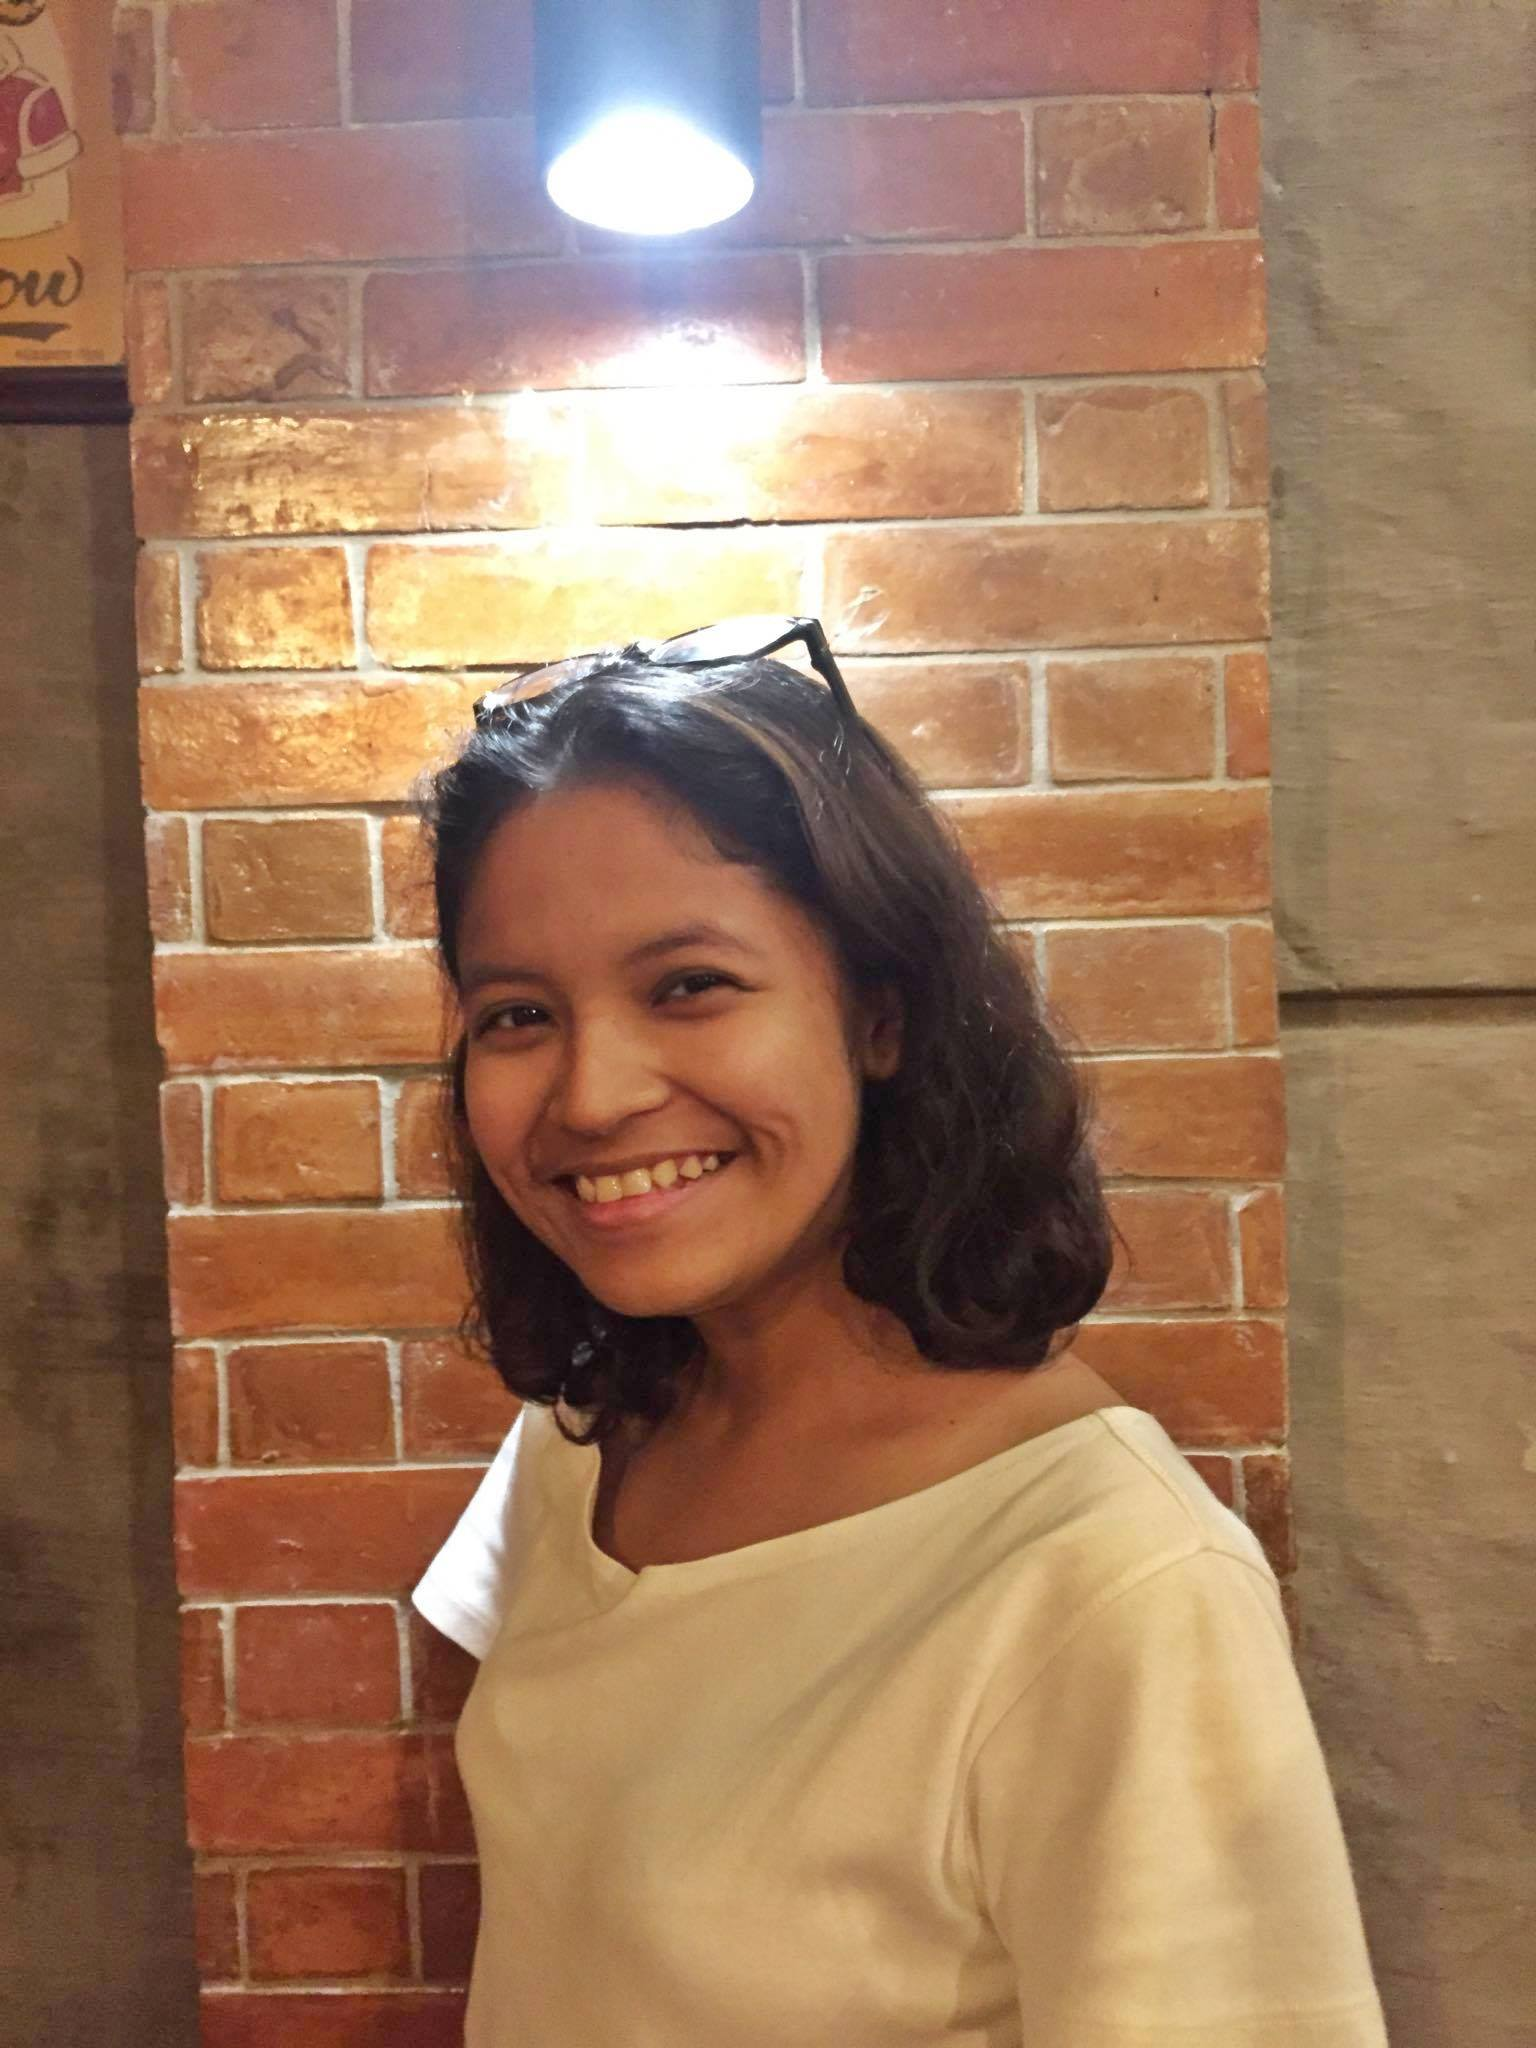
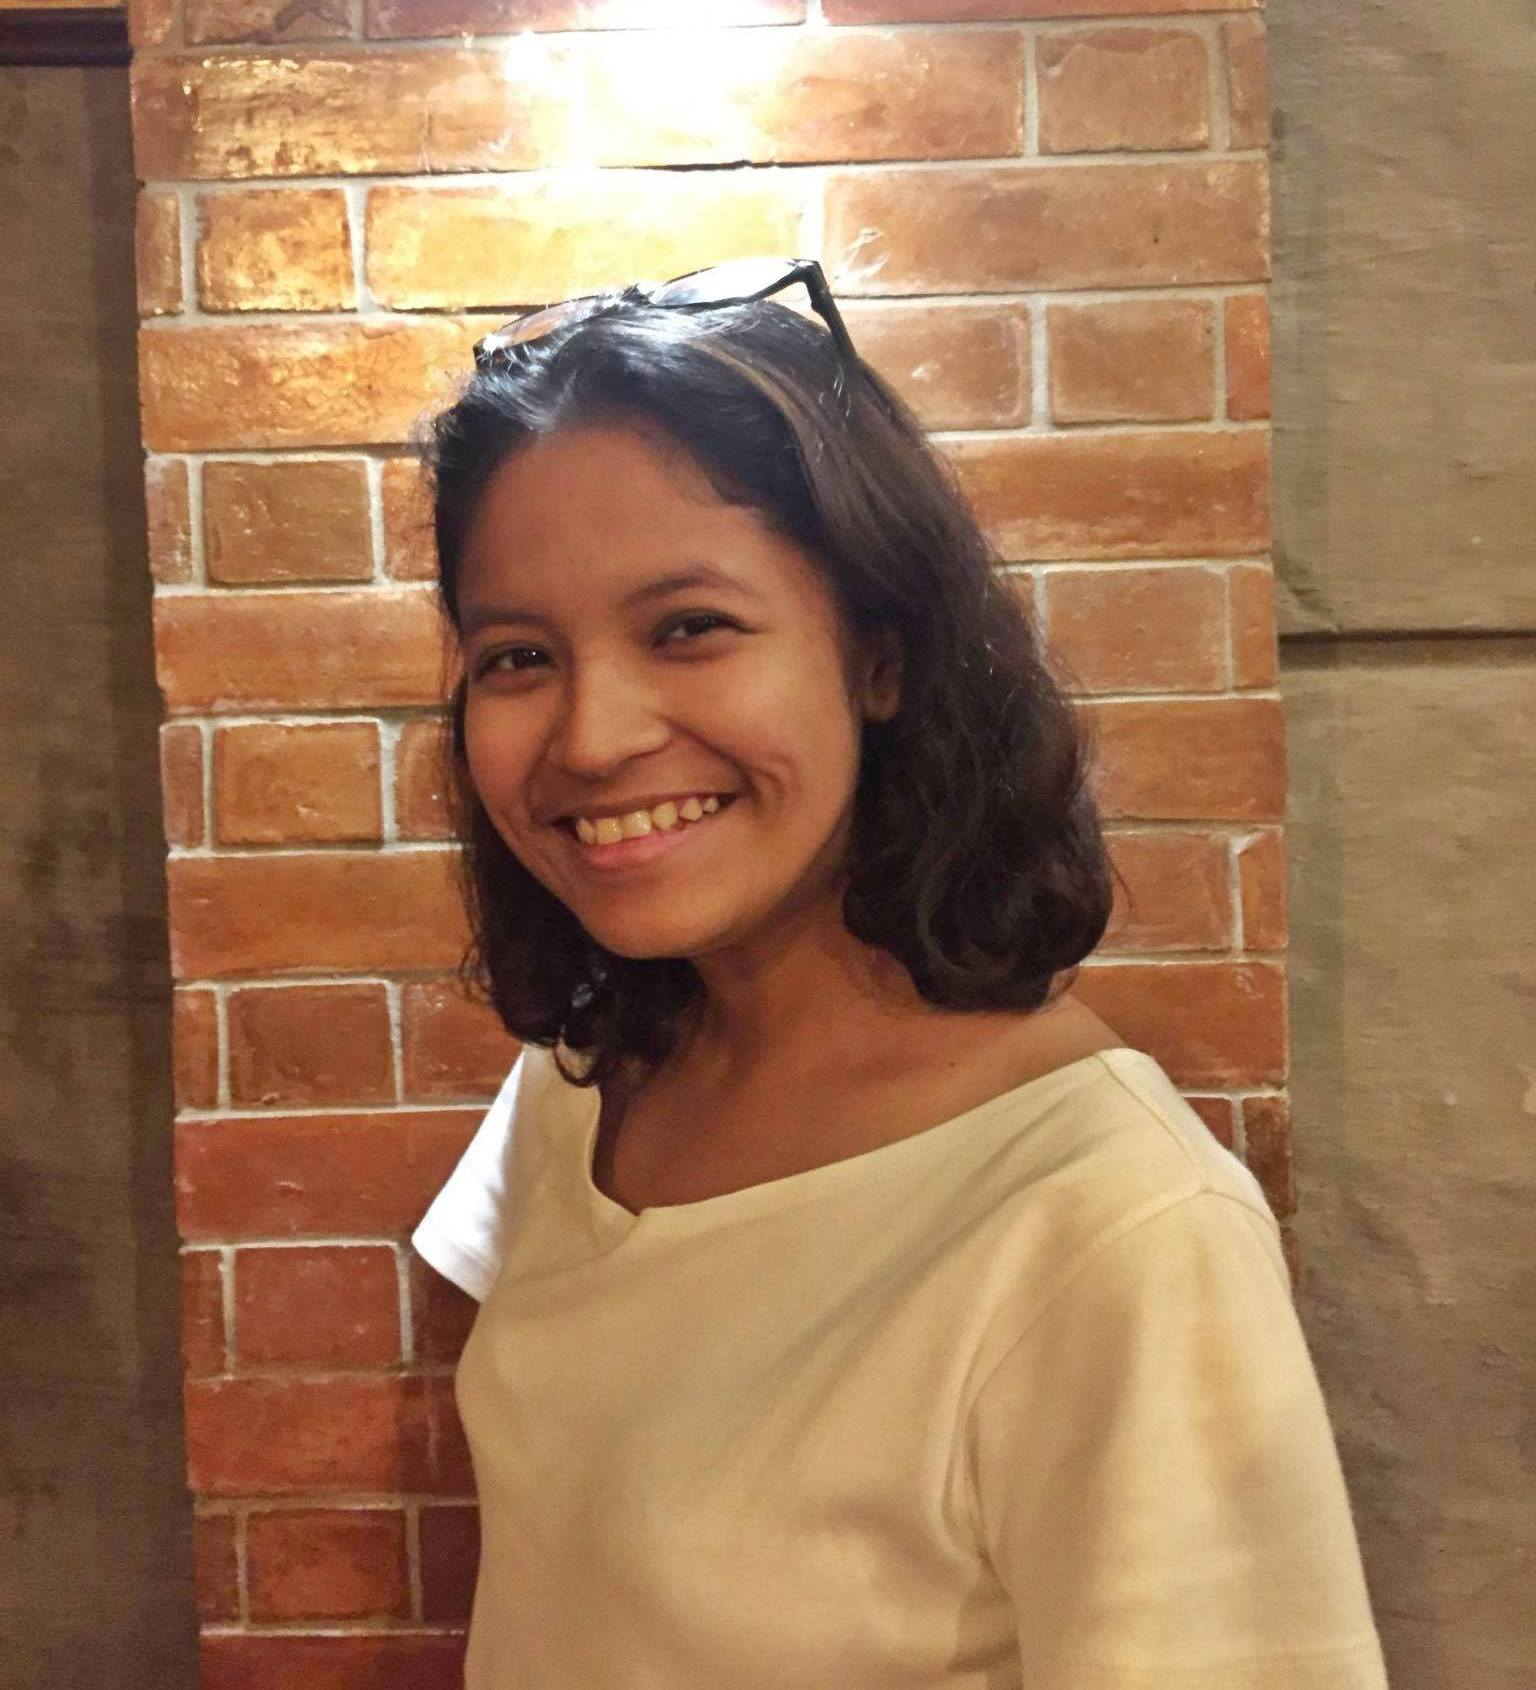
Chapter leader images and links

diff --git a/about.html b/about.html
@@ -325,48 +325,140 @@
     <div class="space-3"></div>
     <div class="row">
       <div class="col-12">
-        <h1 class="special marg-bot-2">
-          Meet the team
+        <h1 class="special marg-bot-2 full-width">
+          Meet the team of chapter leaders
         </h1>
 
-        <div class="card-columns">
+        <div class="row">
           <!-- david -->
-          <div class="person card">
-            <img src="./img/team/David.jpg" alt="David Ongchoco" class="card-img-top img-fluid">
-            <div class="card-block">
-              <p class="bold name">David Ongchoco</p>
-              <p class="text-muted title">Founder of YouthHack, global operations</p>
-              <a href="mailto:david@youthhack.net" class="cyan-text no-decoration">
-                <i class="fa fa-envelope"></i> david@youthhack.net
-              </a>
+          <div class="col-12 col-sm-6 col-md-4 col-lg-3">
+            <div class="person card">
+              <div class="card-img-top">
+                <img src="./img/team/David.jpg" alt="David Ongchoco" class="img-fluid">
+              </div>
+              <div class="card-block">
+                <p class="bold name">David Ongchoco</p>
+                <p class="text-muted title">Founder of YouthHack</p>
+                <a href="mailto:david@youthhack.net" class="cyan-text no-decoration">
+                  <i class="fa fa-envelope"></i> david@youthhack.net
+                </a>
+              </div>
             </div>
           </div>
 
           <!-- sanjula -->
-          <div class="person card">
-            <img src="./img/team/Sanjula.jpg" alt="Sanjula Weerawardhena" class="card-img-top img-fluid">
-            <div class="card-block">
-              <p class="bold name">Sanjula Weerawardhena</p>
-              <p class="text-muted title">Colombo, Sri Lanka</p>
-              <a href="mailto:sanjula@youthhack.net" class="cyan-text no-decoration">
-                <i class="fa fa-envelope"></i> sanjula@youthhack.net
-              </a>
+          <div class="col-12 col-sm-6 col-md-4 col-lg-3">
+            <div class="person card">
+              <div class="card-img-top">
+                <img src="./img/team/Sanjula.jpg" alt="Sanjula Weerawardhena" class="img-fluid">
+              </div>
+              <div class="card-block">
+                <p class="bold name">Sanjula Weerawardhena</p>
+                <p class="text-muted title">Colombo, Sri Lanka</p>
+                <a href="mailto:sanjula@youthhack.net" class="cyan-text no-decoration">
+                  <i class="fa fa-envelope"></i> sanjula@youthhack.net
+                </a>
+              </div>
             </div>
           </div>
 
           <!-- philippe -->
-          <div class="person card">
-            <img src="./img/team/Philippe.jpg" alt="Philippe Bungabong" class="card-img-top img-fluid">
-            <div class="card-block">
-              <p class="bold name">Philippe Bungabong</p>
-              <p class="text-muted title">Manila, Philippines</p>
-              <a href="mailto:philippe@youthhack.net" class="cyan-text no-decoration">
-                <i class="fa fa-envelope"></i> philippe@youthhack.net
-              </a>
+          <div class="col-12 col-sm-6 col-md-4 col-lg-3">
+            <div class="person card">
+              <div class="card-img-top">
+                <img src="./img/team/Philippe.jpg" alt="Philippe Bungabong" class="img-fluid">
+              </div>
+              <div class="card-block">
+                <p class="bold name">Philippe Bungabong</p>
+                <p class="text-muted title">Manila, Philippines</p>
+                <a href="mailto:philippe@youthhack.net" class="cyan-text no-decoration">
+                  <i class="fa fa-envelope"></i> philippe@youthhack.net
+                </a>
+              </div>
+            </div>
+          </div>
+
+          <!-- patricia -->
+          <div class="col-12 col-sm-6 col-md-4 col-lg-3">
+            <div class="person card">
+              <div class="card-img-top">
+                <img src="./img/team/Tisha.jpg" alt="Patricia Evite" class="img-fluid">
+              </div>
+              <div class="card-block">
+                <p class="bold name">Patricia Evite</p>
+                <p class="text-muted title">Calabarzon, Philippines</p>
+                <a href="mailto:pevite@youthhack.net" class="cyan-text no-decoration">
+                  <i class="fa fa-envelope"></i> pevite@youthhack.net
+                </a>
+              </div>
+            </div>
+          </div>
+
+          <!-- jeffrey -->
+          <div class="col-12 col-sm-6 col-md-4 col-lg-3">
+            <div class="person card">
+              <div class="card-img-top">
+                <img src="./img/team/Jeff.jpg" alt="Jeffrey Gao" class="img-fluid">
+              </div>
+              <div class="card-block">
+                <p class="bold name">Jeffrey Gao</p>
+                <p class="text-muted title">Philadelphia, USA</p>
+                <a href="mailto:jeff@youthhack.net" class="cyan-text no-decoration">
+                  <i class="fa fa-envelope"></i> jeff@youthhack.net
+                </a>
+              </div>
+            </div>
+          </div>
+
+          <!-- katherine -->
+          <div class="col-12 col-sm-6 col-md-4 col-lg-3">
+            <div class="person card">
+              <div class="card-img-top">
+                <img src="./img/team/Katherine.jpg" alt="Katherine Sizov" class="img-fluid">
+              </div>
+              <div class="card-block">
+                <p class="bold name">Katherine Sizov</p>
+                <p class="text-muted title">Philadelphia, USA</p>
+                <a href="mailto:katherine@youthhack.net" class="cyan-text no-decoration">
+                  <i class="fa fa-envelope"></i> katherine@youthhack.net
+                </a>
+              </div>
+            </div>
+          </div>
+
+          <!-- cheewin -->
+          <div class="col-12 col-sm-6 col-md-4 col-lg-3">
+            <div class="person card">
+              <div class="card-img-top">
+                <img src="./img/team/Cheewin.jpg" alt="Cheewin Kittikunapong" class="img-fluid">
+              </div>
+              <div class="card-block">
+                <p class="bold name">Cheewin Kittikunapong</p>
+                <p class="text-muted title">Bangkok, Thailand</p>
+                <a href="mailto:cheewin@youthhack.net" class="cyan-text no-decoration">
+                  <i class="fa fa-envelope"></i> cheewin@youthhack.net
+                </a>
+              </div>
+            </div>
+          </div>
+
+          <!-- eshaan -->
+          <div class="col-12 col-sm-6 col-md-4 col-lg-3">
+            <div class="person card">
+              <div class="card-img-top">
+                <img src="./img/team/Eshaan.jpg" alt="Eshaan Menon" class="img-fluid">
+              </div>
+              <div class="card-block">
+                <p class="bold name">Eshaan Menon</p>
+                <p class="text-muted title">Kuala Lumpur, Malaysia</p>
+                <a href="mailto:eshaan@youthhack.net" class="cyan-text no-decoration">
+                  <i class="fa fa-envelope"></i> eshaan@youthhack.net
+                </a>
+              </div>
             </div>
           </div>
         </div>
-        <!-- closing card columns -->
+        <!-- closing row -->
       </div>
       <!-- closing col -->
     </div>

diff --git a/css/style.css b/css/style.css
@@ -665,3 +665,26 @@ a .article:hover {
 .margin-left-1 {
   margin-left: 1rem;
 }
+
+/*
+** Core team
+*/
+.person.card {
+  border-radius: 0px;
+  margin-bottom: 2rem;
+}
+
+.person.card a {
+  font-size: 0.75rem;
+}
+
+.person.card .card-img-top {
+  width: 100%;
+  height: 28vh;
+  overflow: hidden !important;
+  border-radius: 0px;
+}
+
+.person.card p {
+  margin-bottom: 0.25rem;
+}
